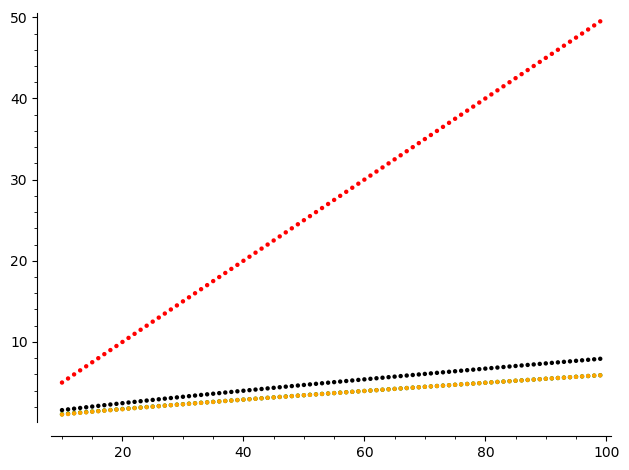
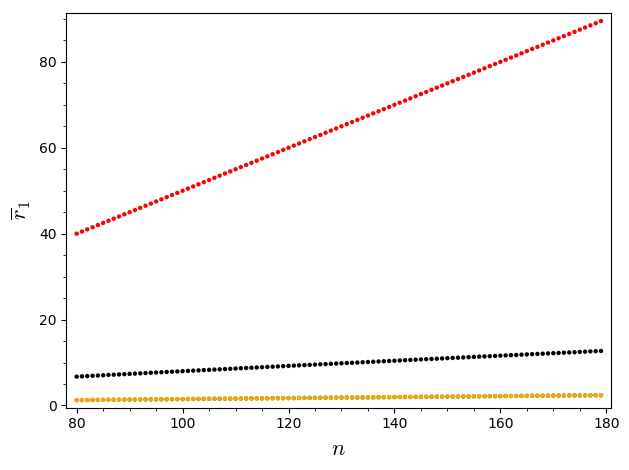
decoding radius sections

diff --git a/report.tex b/report.tex
@@ -29,7 +29,7 @@
 
 
 
-\title{Comparing Families of Lattices for efficient Bounded Distance Decoding near Minkowski’s Bound}
+\title{Comparing Lattice Families for efficient Bounded Distance Decoding near Minkowski’s Bound}
 
 \author{ Oleksandra Lapiha }
 \usepackage{xcolor}
@@ -301,22 +301,13 @@ It is a $q$-smooth integer, so to efficiently calculate discrete logarithms in t
 \[
     O(\sum_{i=1}^{k} a_{i}(\ln(|G|) + \sqrt{t_{i}}))
 \]
-To be polynomial in lattice dimension $a_{i} \leq e_{j}-1$ and $t_{i} \leq q_{j}$ need to be polynomial in $n$. For this reason we configure $e_{j} = n$ for every $j$. As we have $n \cdot k$ such operations, $k$ should be polynomial in $n$.
-
-%\begin{question}
-%    Should I talk about how we find generators?(I don't really know how the default function in sagemath does it and what is the complexity, but I could discuss how it happens in theory)
-%\end{question}
-%{\bf Why not. }
+To be polynomial in lattice dimension $a_{i} \leq e_{j}-1$ and $t_{i} \leq q_{j}$ need to be polynomial in $n$. As we have $n \cdot k$ such operations, $k$ should be polynomial in $n$.
 
 It is easy to see that step two (\ref{step2}) takes linear time in $n + k$. Step three (\ref{step3}) is LLL algorithm, which is proven to run in polynomial time in $n + k$.
 
 Finally, step four (\ref{step4}) includes matrix multiplication and inversion for matrices which dimension is bounded by $n + k$. They obviously take polynomial time.
 
-We still haven't configured parameters $k, q_{j}, p_{i}$. $q_{j}, p_{i}$ must be pairwise different and as small as possible, so we need $n+k$ distinct prime numbers. We choose $q_{j}$ to be equal to first $k$ odd prime numbers and $p_{i}$ equal to $2$ and next $n-1$ smallest primes the we haven't used yet.
 
-ToDo: Add that for every $e_i$ we choose $n$.
-
-Question: What is the best k?
 
 \subsection{Decoding radius}
 \label{subsec:radius_integers}
@@ -325,14 +316,25 @@ The decoding algorithm that we discussed in the introduction \ref{sec:intro} wor
 
 The decoding radius for the general continous error:
 \[
-    r_{\mathbb{Z}} = \frac{\ln(m/2)}{4 \cdot (q^{n-1}(q-1))^{1/n} \cdot \ln(B)}
+    r_{\mathbb{Z}} = \frac{\ln(m/2)}{4 \cdot (\varphi(m))^{1/n} \cdot \ln(B)}
 \]
+
+We still haven't configured parameters $k, q_{j}, p_{i}$. $q_{j}, p_{i}$ must be pairwise different and as small as possible, so we need $n+k$ distinct prime numbers. We choose $p_{i}$ to be equal to first $n$ prime numbers and $q_{j}$ equal to the next $k$ smallest primes the we haven't used yet.
+
+The ratio $\frac{ln(m/2)}{\varphi(m)}$ decreases as $m$ tends to infinity, so to make use of the difference in the ratio in the generalizartion, we would like $m$ to have the same size as in the original construction. We would like to have $e_i \sim \frac{\ln(3) \cdot n}{\ln(q) \cdot k}$, but it has to be an integer, so we round this value. Then we have:
+\[
+    m = \prod_{i = 1}^{k} q_i^{round(\frac{\ln(3) \cdot n}{\ln(q) \cdot k})} \sim 3^n
+\]
+
+The only parameter left to configure is $k$. The way we set up $e_i$s number of factors will only increase the ratio $\frac{ln(m/2)}{\varphi(m)}$. So the more factors we have the better.
+
 Let us compare initial construction, its generalization and theoretical upperbound with respect to the decoding radius.
 
-
-
-
-Here I'd like to say that we can decode all the same error but it's still a tiny bit better and give a graph with upper bound lower bound old(basis) algorithm and new(generalized) algorithm.
+\begin{figure}
+  \includegraphics[width=\linewidth]{generalization_integers.png}
+  \caption{Comparison of the nomalised decoding radius for initial construction(in green) and the generalization(in yellow). Here we took k = 20. }
+  \label{fig:gen_int}
+\end{figure}
 
 \subsection{Was it all worth it?}
 \label{subsec:improvement_integers}
@@ -471,6 +473,10 @@ $\forall 1 \leq i,j \leq n :$ $log_{\beta_j}(x - \alpha_i) \pmod{q^{d} -1}$. The
 \label{subsubsec:primal_from_dual_polynomials}
 
 
+\subsection{Complexity of the basis computation.}
+\label{subsec:complexity_polynomials}
+
+
 \subsection{Decoding radius}
 \label{subsec:radius_polynomials}
 
@@ -541,9 +547,6 @@ Therefore, $b \cdot c = 1$. In practice we fix $b = 2, c = \frac{1}{2}$. In the 
     \bar{r}_1 = \frac{n}{\log(n)(n^{2} - 1)^{1/2\log(n)}}
 \]
 
-A note for myself! In my code the determinant of the lattice is changing! It is upper-bounded by $(q^{d} - 1)^{k}$ but practice shows that it is sometimes much smaller, it means that sometimes our algorithm decodes even larger error. But also with a new version it fails whenever it cannot reduce the matrix to systematic form so if these cases coincide we don't really care.
-
-
 \section{Comparing All Constructions}
 \label{sec:comparison}
 
@@ -552,6 +555,21 @@ A note for myself! In my code the determinant of the lattice is changing! It is 
 
 \subsection{Decoding radius of the algorithms}
 \label{subsec:radius_comparison}
+For the first family final normalized error radius that the algorithm can handle is:
+\[
+    \bar{r}_1 = \frac{\ln(m/2)}{4 \cdot \varphi(m)^{1/n} \cdot \ln((n+1)\ln(n+1))}
+\]
+And for the second construction it is much better:
+\[
+    \bar{r}_1 = \frac{n}{\log(n)(n^{2} - 1)^{1/2\log(n)}}
+\]
+But both of them are still logatihmically far from Minkowski's bound. The figure \ref{fig:everything} will help you to see the difference in practice.
+
+\begin{figure}
+  \includegraphics[width=\linewidth]{everything.png}
+  \caption{Comparison of all algorithms and theoretical upperbound(in red): basic algorithm for integer lattice(in green), generalized algorithm for integer lattice(in yellow), algorithm for polynomial lattices(in blue)}
+  \label{fig:everything}
+\end{figure}
 
 \section{LLXY17 Cryptanalysis?}
 \label{sec:cryptanalysis}
